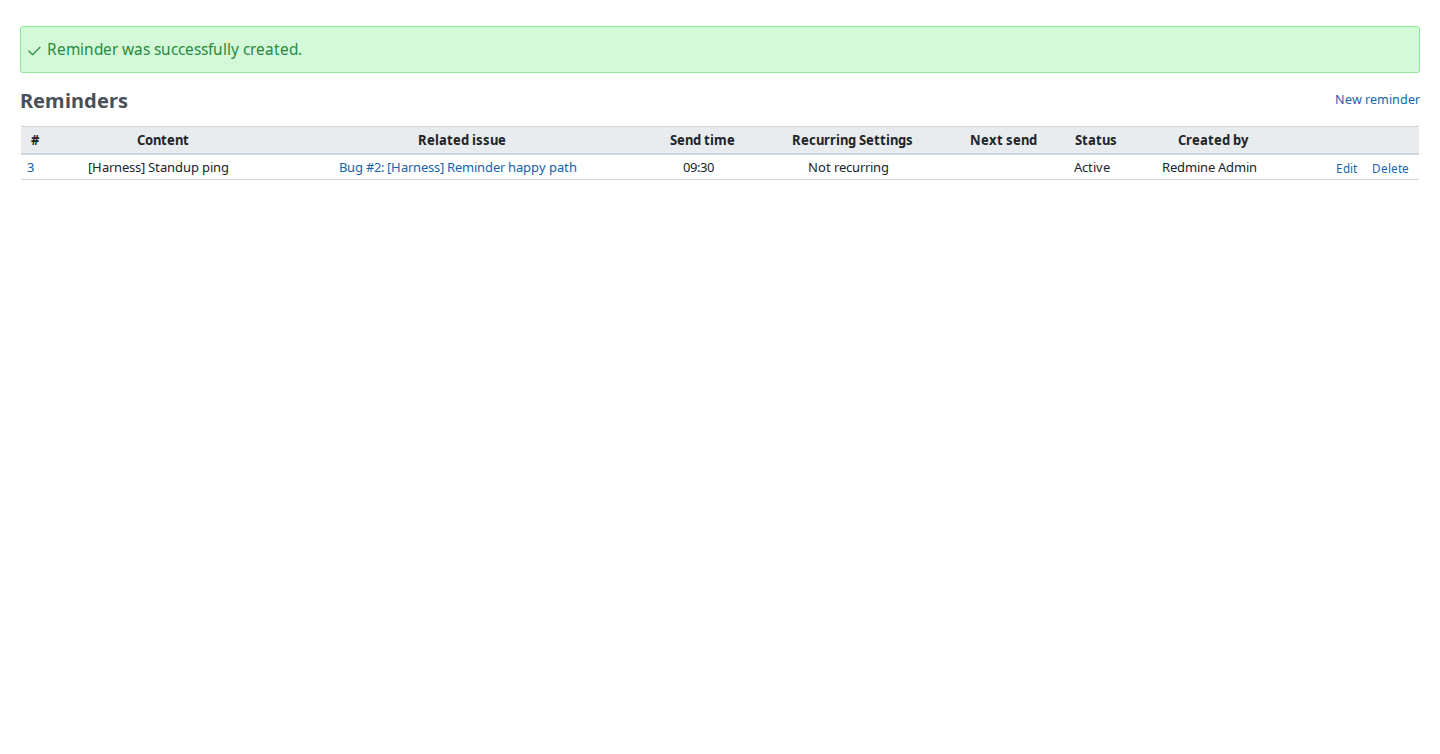
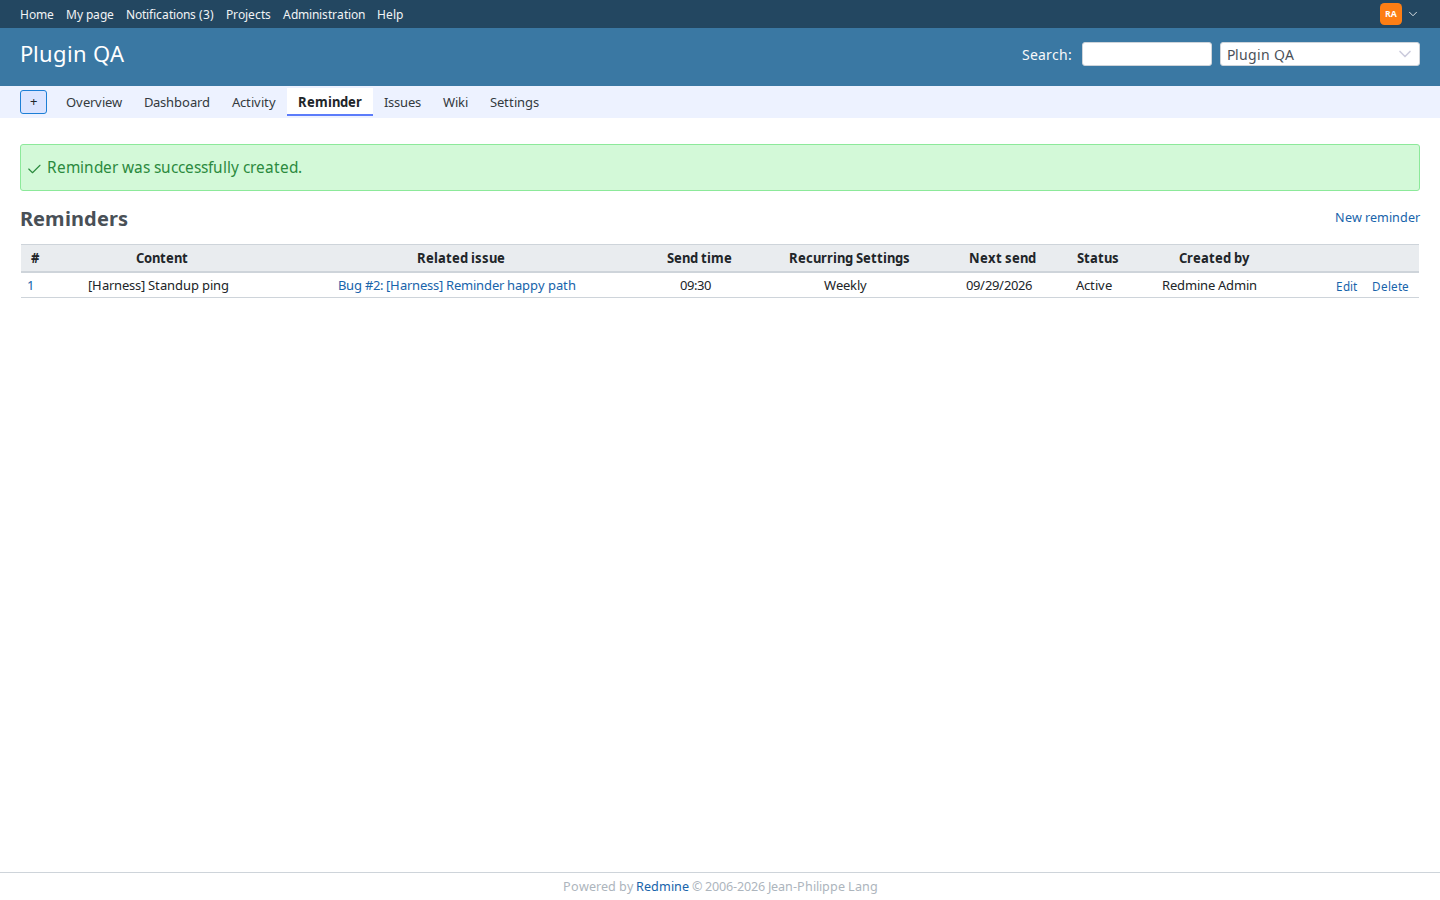
docs: replace P1 README screenshots (#3)
Full-page README screenshots from monorepo redmineshop/redmineshop#58 (08286a3) on demo Redmine 7.0.1.stable, viewport 1440x900. reminder-new-form.png kept as an alias of reminder-issue.png. Includes locale labels for created/updated so the detail screenshot matches.

diff --git a/screenshots/README.md b/screenshots/README.md
@@ -1,9 +1,14 @@
 # Screenshots — Redmine Reminder
 
-Images from a demo Redmine. The Redmine version in the capture was not recorded. A full-page screenshot is still TODO.
+Captured by Playwright against demo Redmine (viewport 1440×900, deviceScaleFactor 1, full page).
 
-- `reminder-new-form.png` — create form (content, date/time, related issue)
+Refresh is **private-monorepo only** (`redmineshop/redmineshop` harness). A public clone of this plugin cannot run that job.
+
+Output:
+
+- `reminder-settings.png` — plugin settings; Slack / Google Chat webhook fields masked; channel display `#acme-portal` (not saved)
+- `reminder-issue.png` — new reminder tied to a sample issue, repeat set to Weekly (`reminder-new-form.png` is the same image)
 - `reminders-list.png` — project Reminders index after create
-- `reminder-detail.png` — reminder show page
+- `reminder-detail.png` — reminder show page, recurrence visible
 
-These files do not prove a specific Redmine 5.0 / 5.1 / 6.0 / 6.1 / 7.0 cell. See the compatibility table in the README.
+Not produced here: `slack-example.png` (this stack has no Slack client).

diff --git a/README.md b/README.md
@@ -75,21 +75,22 @@ Declared follows `requires_redmine version_or_higher: '5.0'` for 5.x and 6.x. Re
 | 6.1.x   | Yes      | No — unverified |
 | 7.0.x   | No       | No — unverified |
 
-## Screenshot
+## Screenshots
 
-Reminders index on a project (demo Redmine):
+Plugin settings. Webhook URL fields are masked. The channel in the shot is the fake name `#acme-portal` (display only; the harness does not save it).
+
+![Reminder webhook settings](screenshots/reminder-settings.png)
+
+New reminder on the sample project, linked to an issue, set to repeat weekly:
+
+![Issue reminder with weekly recurrence](screenshots/reminder-issue.png)
 
 ![Reminders list](screenshots/reminders-list.png)
 
-Create form:
-
-![New reminder form](screenshots/reminder-new-form.png)
-
-Detail view:
-
 ![Reminder details](screenshots/reminder-detail.png)
 
-Images are from a demo Redmine. The Redmine version in the capture was not recorded. A full-page screenshot is still TODO.
+Screenshot refresh lives in the private `redmineshop/redmineshop` harness. A public clone cannot run it.
+
 
 ## Tests
 

diff --git a/CHANGELOG.md b/CHANGELOG.md
@@ -9,6 +9,10 @@ All notable changes to this plugin. Format follows [Keep a Changelog](https://ke
 - MiniTest: Reminder validations/schedule (`test/unit/reminder_test.rb`) and RemindersController `#index` / `#create` / `#show` (`test/functional/reminders_controller_test.rb`). Still partial — no webhook POST, cron, or edit/update/destroy coverage.
 - Plugin quality harness notes and README screenshot slots (demo Redmine E2E; not a Redmine version matrix)
 
+### Fixed
+
+- Reminder detail uses locale strings for the created and last-updated labels. Those two labels were hardcoded Vietnamese on every language.
+
 ### Changed
 
 - README: Last maintained date, screenshots, and MiniTest coverage marked **Partial**. E2E is not in this public repo.
